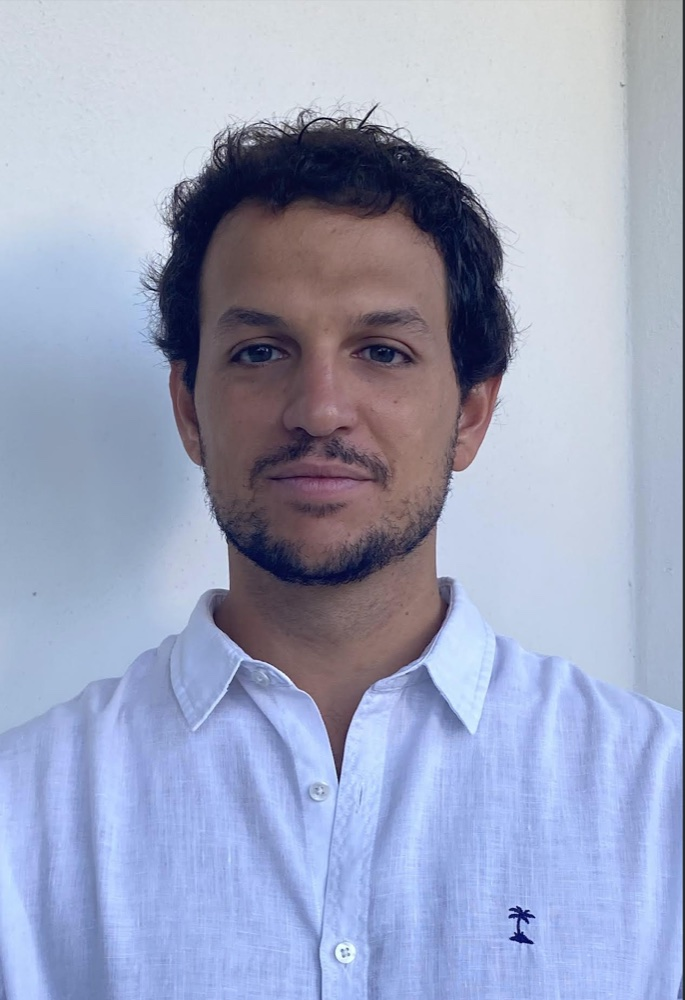
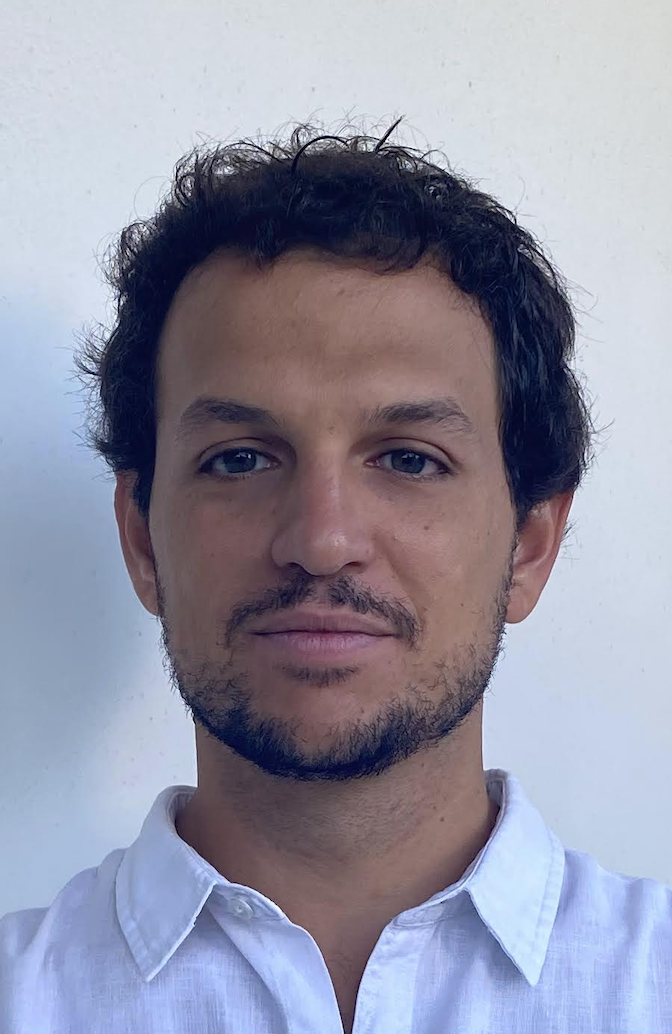
responsive added

diff --git a/public/style.css b/public/style.css
@@ -157,10 +157,46 @@ footer {
 .not-found h1 { font-size: clamp(3rem, 9vw, 7rem); }
 .not-found .summary { margin-bottom: 1.5rem; }
 
-@media (max-width: 34rem) {
-  .page { width: min(100% - 2rem, 72rem); }
-  .home main { gap: 1rem; }
-  .details { grid-column: 1 / -1; }
+@media (max-width: 48rem) {
+  body { overflow-y: auto; }
+
+  .page {
+    width: min(100% - 2rem, 72rem);
+    height: auto;
+    min-height: 100vh;
+    min-height: 100svh;
+  }
+
+  .home main {
+    grid-template-columns: minmax(0, 1fr);
+    gap: 1rem;
+  }
+
+  .portrait {
+    grid-column: 1;
+    grid-row: 1;
+    width: clamp(9rem, 42vw, 13rem);
+    justify-self: center;
+    margin-bottom: .5rem;
+  }
+
+  .portrait img {
+    height: auto;
+    max-height: none;
+    aspect-ratio: auto;
+    object-fit: contain;
+  }
+
+  .intro {
+    grid-column: 1;
+    grid-row: 2;
+  }
+
+  .details {
+    grid-column: 1;
+    grid-row: 3;
+  }
+
   .summary { font-size: .95rem; }
   .details .context { font-size: .82rem; line-height: 1.5; }
   header span { display: none; }
